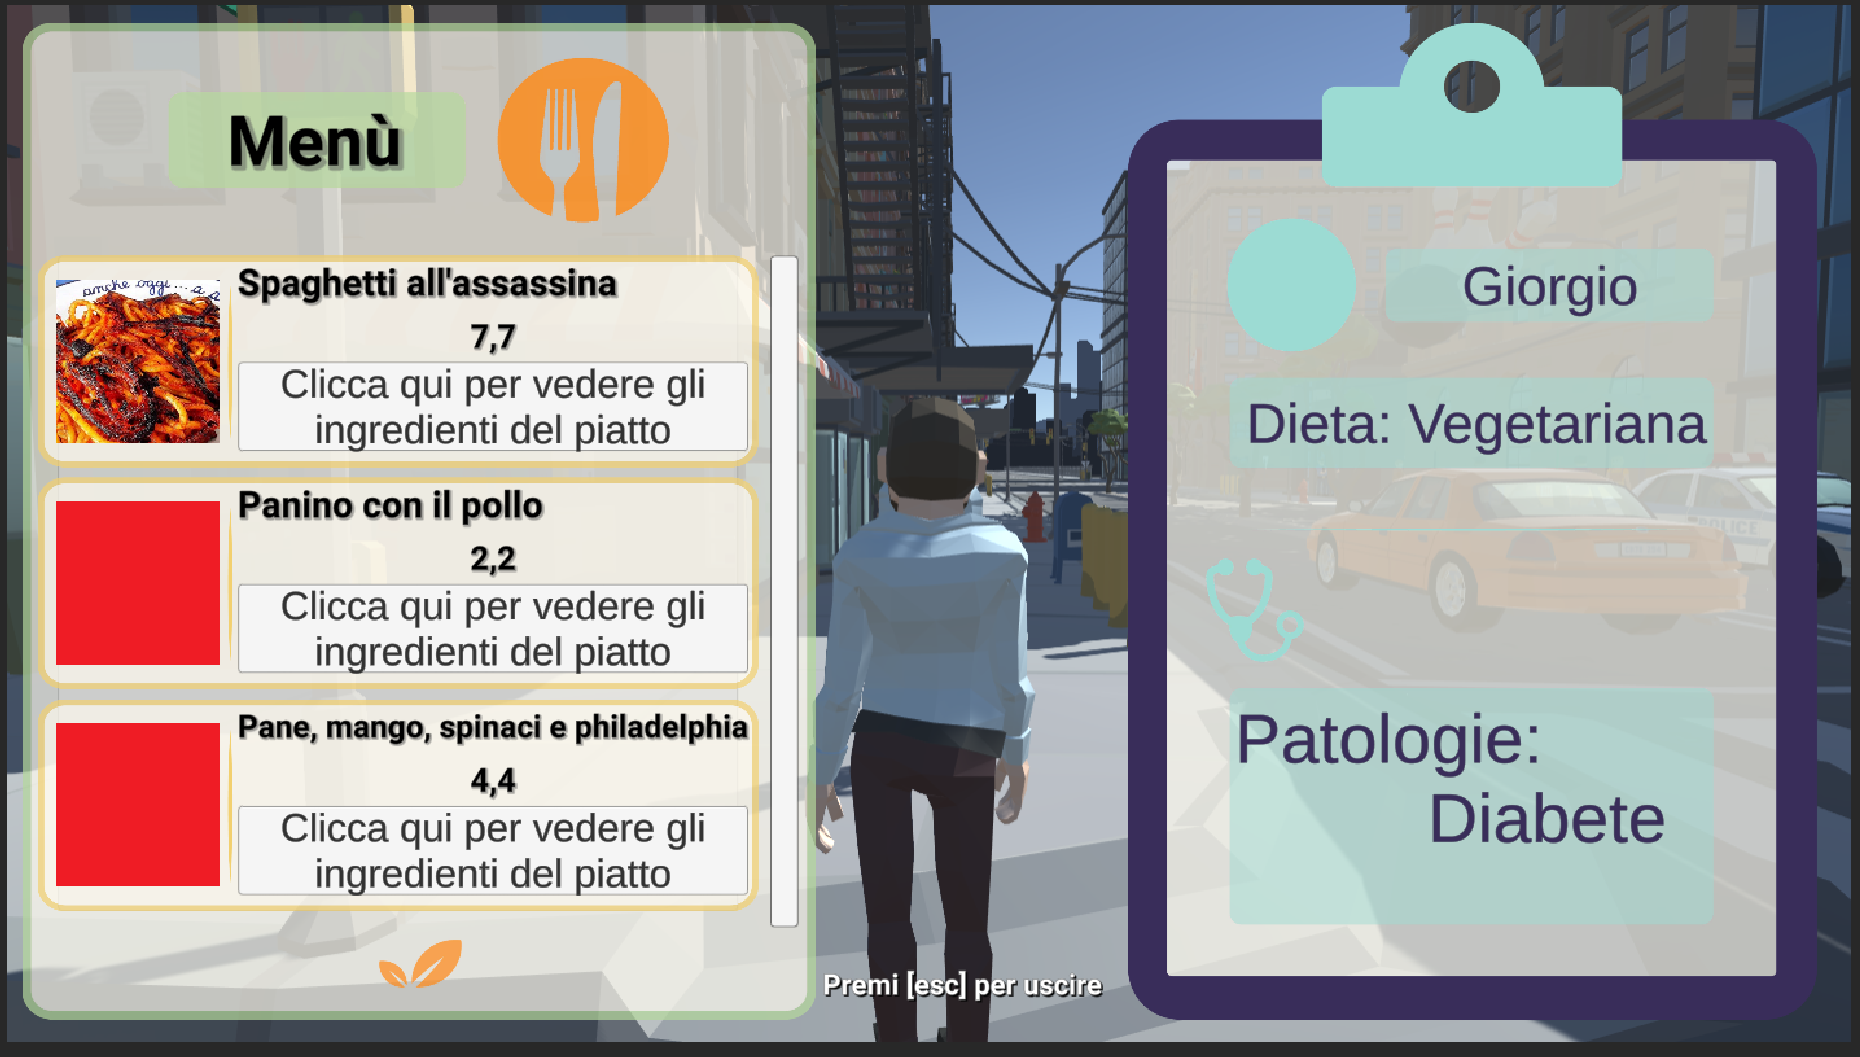
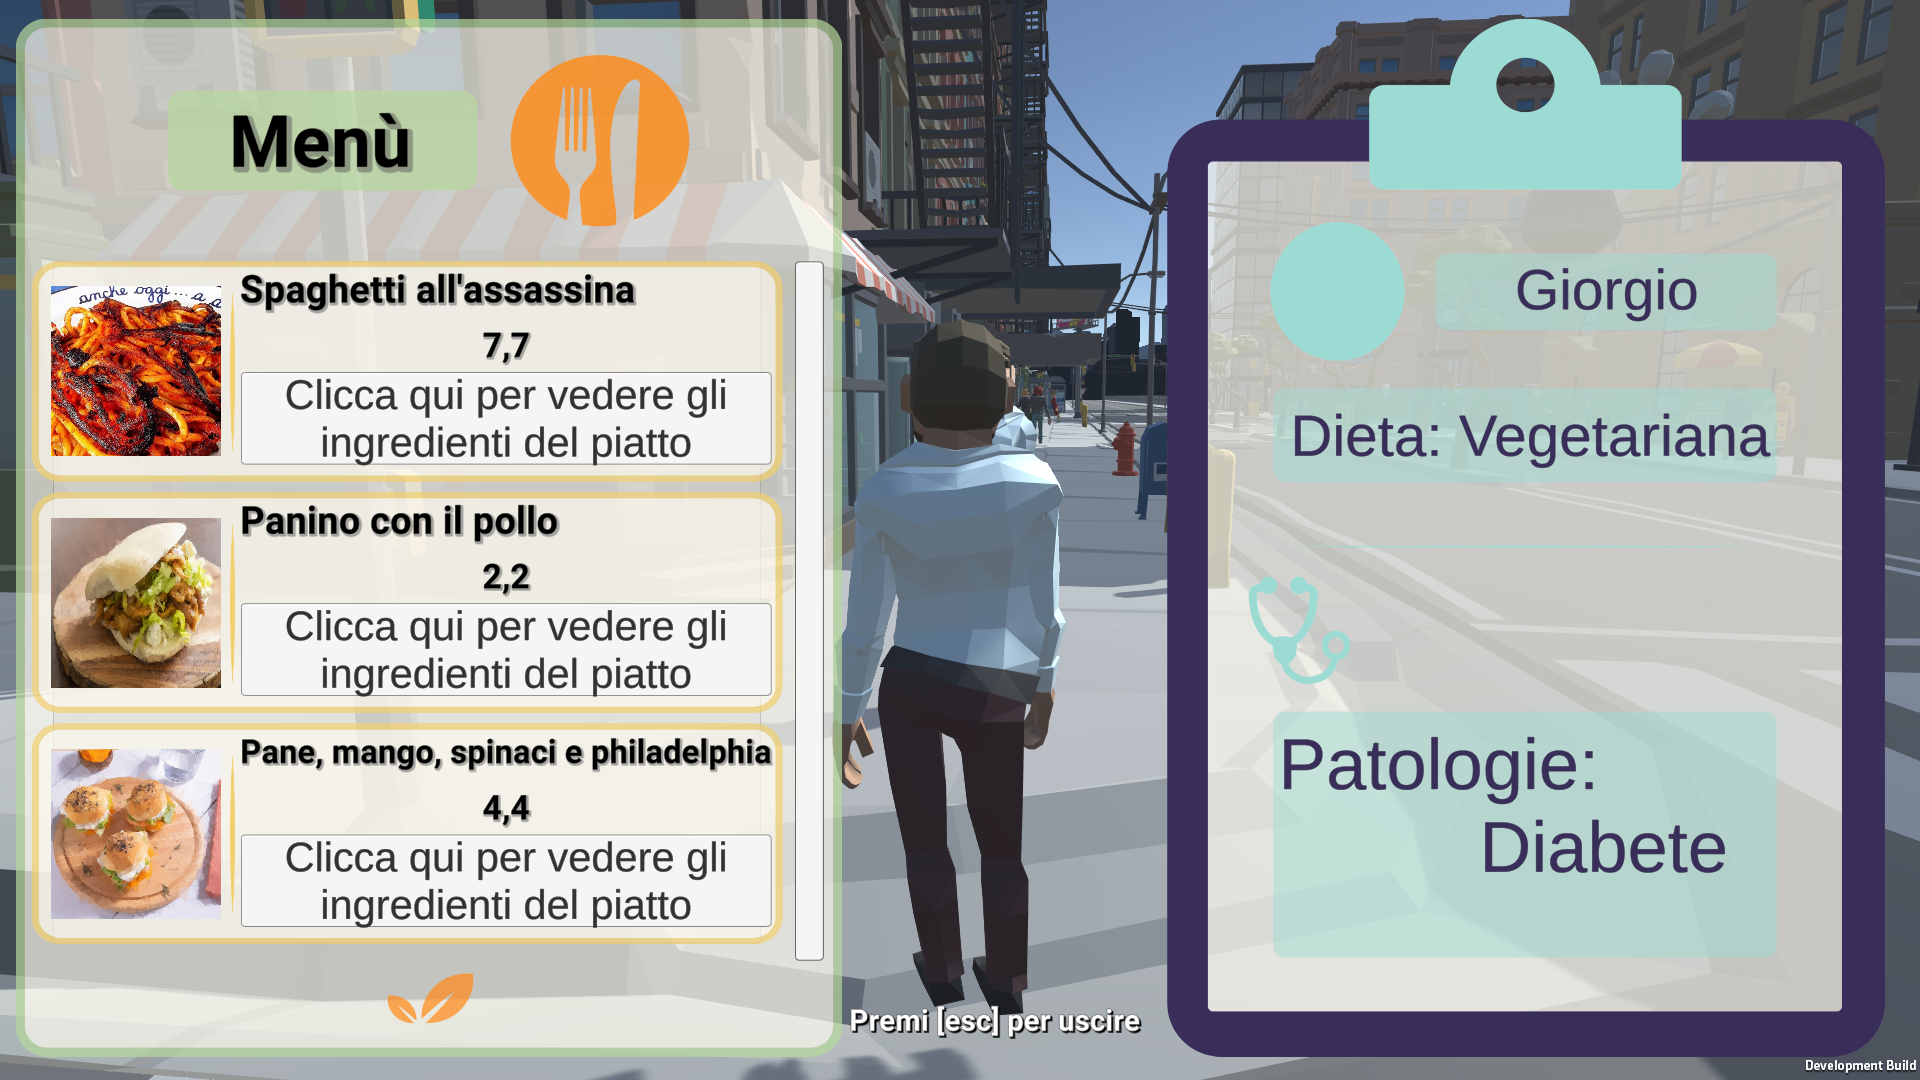
Aggiornati screen

diff --git a/README.md b/README.md
@@ -70,13 +70,15 @@ Il modello 3D interno del ristorante è stato realizzato da Angelica.
 ## Immagini di gioco
 
 
-![Menu Iniziale](doc/Screenshoot/menuIniziale.png "Menu Iniziale")
+![Menu Iniziale](doc/img/Screenshoot/menuIniziale.png "Menu Iniziale")
 
 ![Creazione Profilo Utente](doc/img/Screenshoot/CreazioneProfiloUtente.PNG "Creazione profilo utente")
 
-![InterazioneCliente](doc/img/Screenshoot/InterazioneCliente.PNG "HUD in Game interazione cliente")
+![InterazioneCliente](doc/img/Screenshoot/InterazioneCliente.PNG "GUI interazione cliente")
 
-![Menu Opzioni](doc/img/Screenshoot/MenuOpzioni.PNG "HUD Menu opzioni")
+![GUI in Game](doc/img/Screenshoot/ScreenInGame.PNG "GUI in Game")
+
+![Menu Opzioni](doc/img/Screenshoot/MenuOpzioni.PNG "GUI Menu opzioni")
 
 
 
